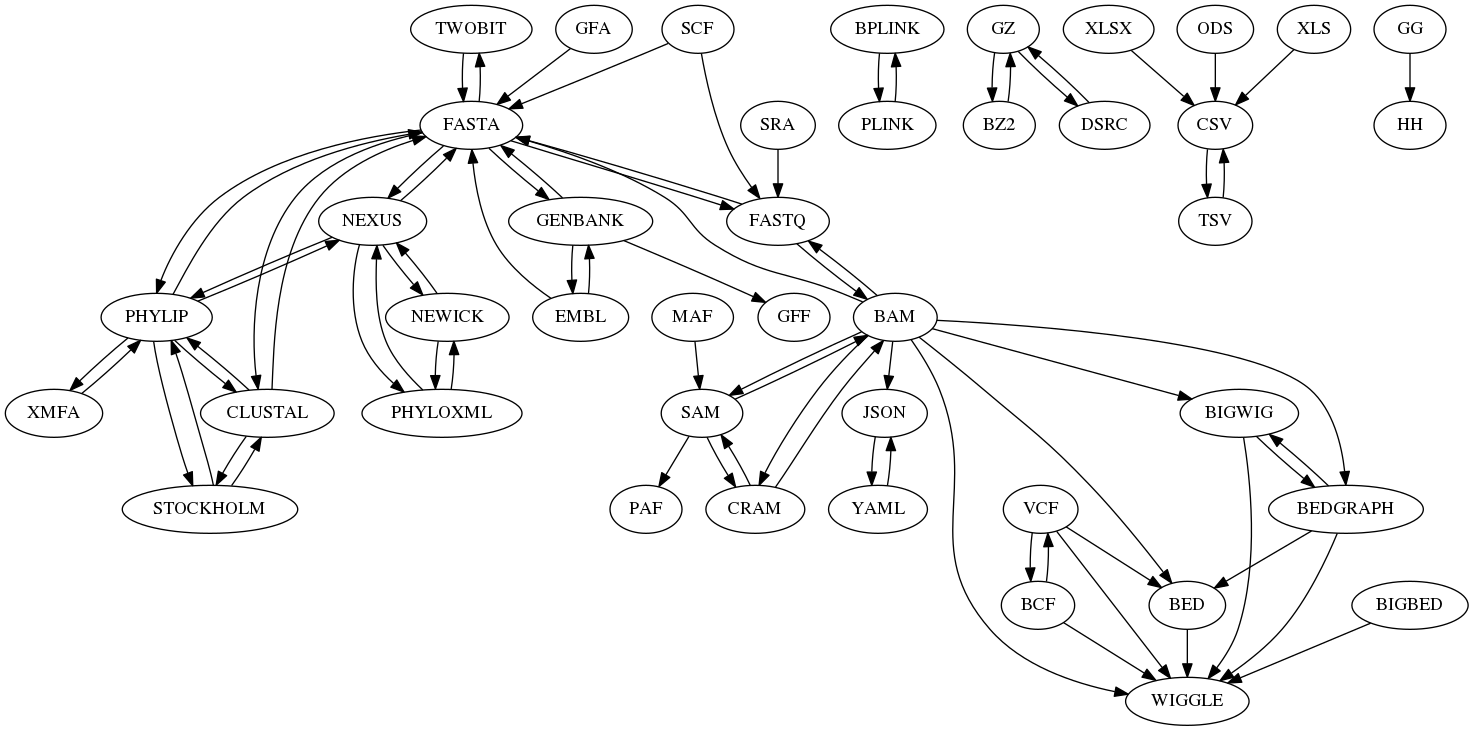
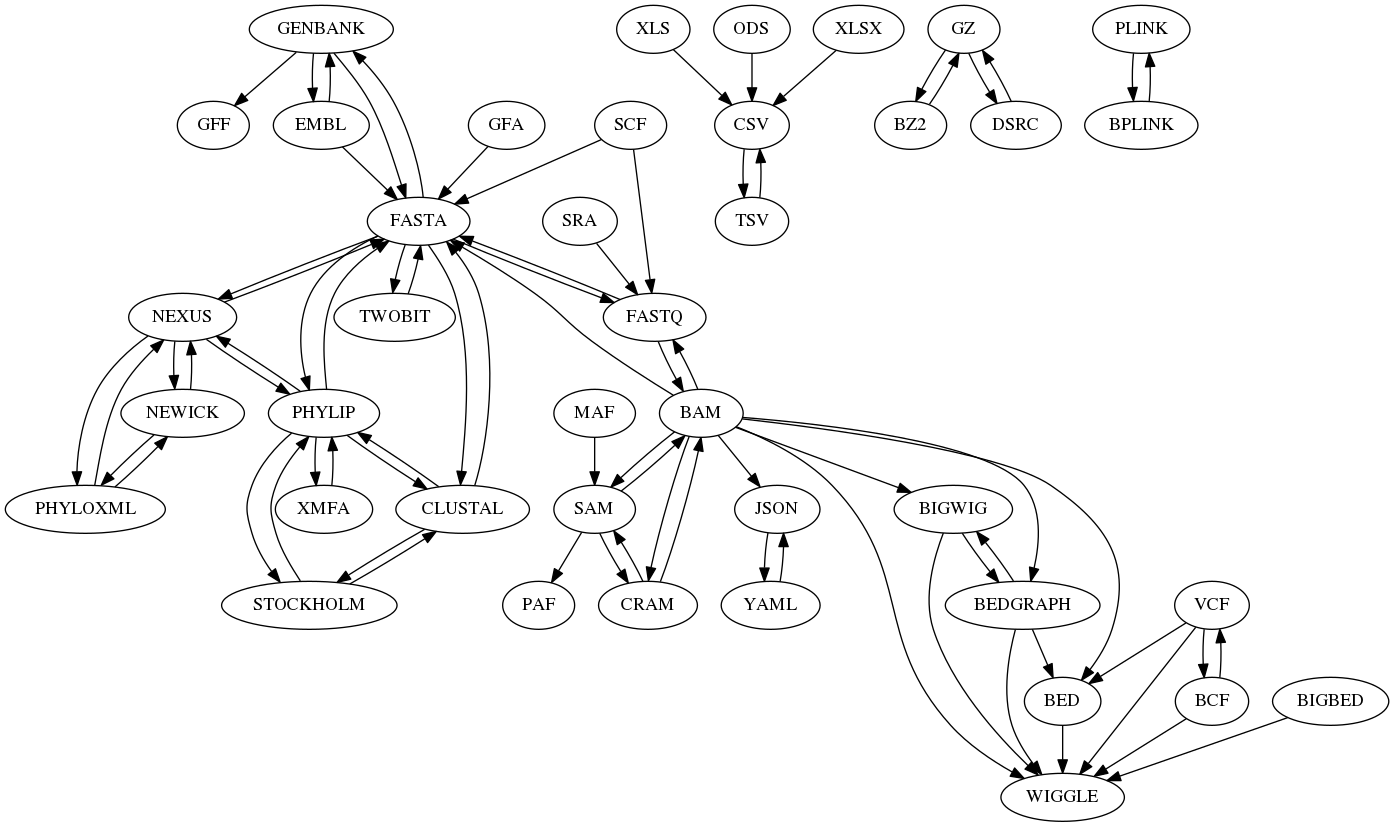
update reference

diff --git a/doc/ref_converters.rst b/doc/ref_converters.rst
@@ -48,7 +48,6 @@ Summary
 	bioconvert.genbank2fasta
 	bioconvert.genbank2gff
 	bioconvert.gfa2fasta
-	bioconvert.gg2hh
 	bioconvert.gz2bz2
 	bioconvert.gz2dsrc
 	bioconvert.json2yaml
@@ -290,11 +289,6 @@ All converters documentation
     :private-members:
 
 .. automodule:: bioconvert.gfa2fasta
-    :members:
-    :synopsis:
-    :private-members:
-
-.. automodule:: bioconvert.gg2hh
     :members:
     :synopsis:
     :private-members:
